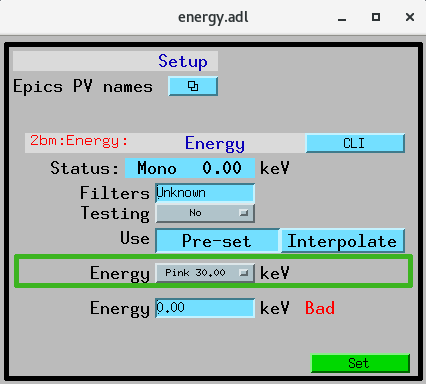
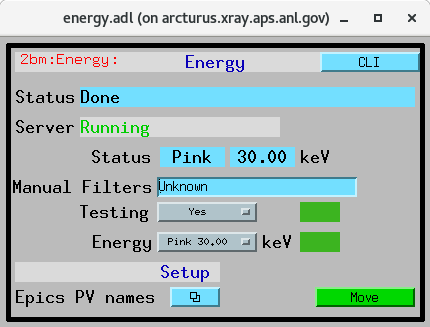
docs improvements

diff --git a/docs/source/usage.rst b/docs/source/usage.rst
@@ -96,17 +96,54 @@ For example to set the beamline to the last energy configuration ::
 GUI
 ===
 
-The beamline x-ray energy change is managed by the `energy cli <https://github.com/xray-imaging/energy>`_ python library. 
+X-ray energy changes at the beamline are managed using the `energy cli <https://github.com/xray-imaging/energy>`_ tool. The user interface offers two modes for adjusting the energy: Pre-set and Interpolate.
 
-.. image:: img/energy_01.png 
+**User Control Screen – Pre-set Mode**
+
+The default Pre-set mode lets you move the beamline to a pre-calibrated energy value:
+
+.. figure:: img/energy_01.png 
    :width: 256px
    :align: center
    :alt: tomo_user
 
-The energy change operates in two modes. The first uses pre-stored energy calibration files. To select this mode select use "Pre-set". Then you can select any available energy from the drop down list.
+   User control screen
 
-Once the desired energy is selected press the "Set" button to move the beamline to the pre-calibrated locations.
+#. Select an energy from the drop-down list.
+#. Click Move to initiate the energy change.
 
-The second mode **interpolate** allows the enter an arbitrary energy value. In this case the new position for all the PVs listed in the **Energy Move** list will be calculated by interpolation between the two closest pre-calibrated positions. The PVs listed in the **Energy Position** list will not be used by the interpolation and these motors will not move.
+This mode ensures all relevant components move to positions corresponding to a pre-defined energy configuration.
+
+
+**Admin Control Screen – Interpolate Mode**
+
+The Interpolate mode, available from the admin control screen, allows you to enter an arbitrary energy value not found in the pre-set list. In this mode:
+
+- Positions for all Process Variables (PVs) listed in the **Energy Move** list are calculated by linear interpolation between the two closest calibrated energy points.
+- PVs in the **Energy Position** list are excluded from the interpolation and will not be moved.
+
+.. figure:: img/energy_02.png
+    :width: 40%
+    :align: center
+
+    Admin control screen
+
+**Configuration Screen**
+
+A separate configuration screen allows administrators to manage which PVs are affected during an energy change:
+
+- You can add or remove PVs from the Energy Move list.
+- Shutter control PVs can be configured.
+- The **Sync to Motor** list allows you to define virtual motors that will automatically synchronize after each energy change.
+
+.. figure:: img/energy_03.png
+    :width: 75%
+    :align: center
+
+    Setup configuration screen
+
+.. warning:: If the above PVs are changed **energy** python server must be restarted.
+
+
 
 

diff --git a/docs/source/energyApp.rst b/docs/source/energyApp.rst
@@ -194,28 +194,34 @@ Sync PV Names
     - stringout
     - Contains the name of the sync to motor PV that will be set to 1 at the end of an energy change.
 
-medm files
-----------
+GUI
+===
 
-energyEPICS_PVs.adl
-^^^^^^^^^^^^^^^^^^^
+The following are MEDM screens to interact with the energy EPICS IOC:
 
-.. figure:: img/energyEPICS_PVs.png
-    :width: 75%
-    :align: center
-
-    Energy change configuration screen
-
-
-.. warning:: If the above PVs are changed **energy** python server must be restarted.
-
-
-energy.adl
-^^^^^^^^^^
 
 .. figure:: img/energy_01.png
     :width: 40%
     :align: center
 
-    Energy change medm screen
+    User control screen
+
+
+.. figure:: img/energy_02.png
+    :width: 40%
+    :align: center
+
+    Admin control screen
+
+.. figure:: img/energy_03.png
+    :width: 75%
+    :align: center
+
+    Setup configuration screen
+
+.. warning:: If the above PVs are changed **energy** python server must be restarted.
+
+
+
+
 
